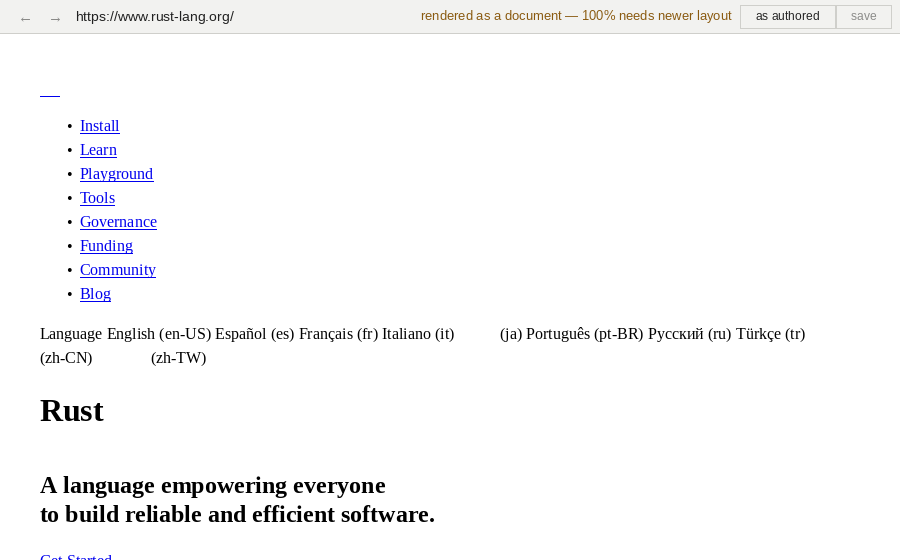
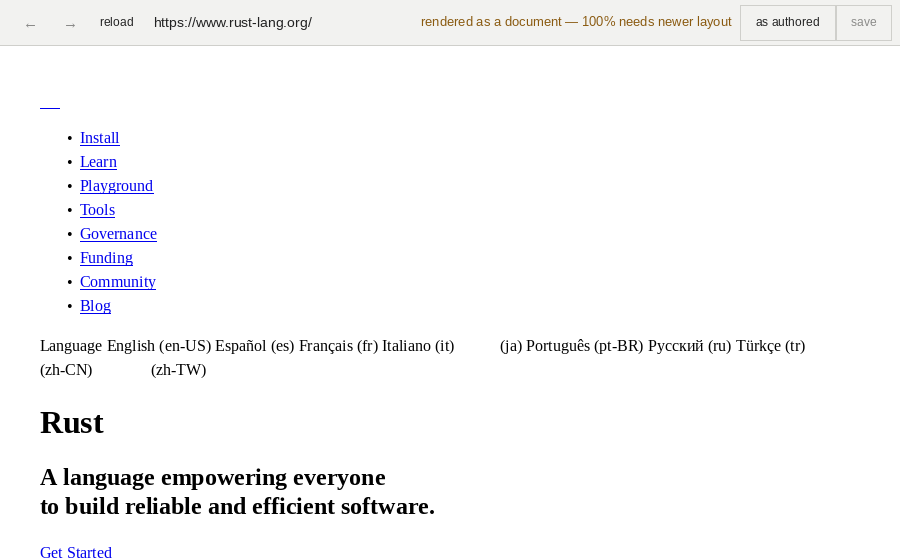
Give reload a word, and update the screenshots to show it
The reload button drew as a hollow box. U+21BB is not in any of the four
families ADR-0008 bundles, and the commit that added it asserted the
opposite in a comment — an assumption, written confidently, that every test
passed straight over. It took regenerating the screenshots and looking at
one to see it.

This is the failure the bookmark control already documents: "a word rather
than a star because the bundled fonts have no star in them ... a control
that draws as a hollow box is worse than one that says what it does". So
reload now carries the word, at 58px like the other worded controls. Back
and forward keep their arrows, which are genuinely there.

The screenshots are regenerated from the release build via
scripts/screenshots.sh: hacker-news, first-website, and document-fallback
show the 46px bar and the new button, and chrome.png is redrawn from the
chrome-strip example.

Worth noting what did not catch this. The chrome is drawn through the same
rasteriser as the page specifically so it can be tested headlessly, and
124 tests do exercise it — but every one of them asks where a control is or
whether its pixels changed, and a hollow box has a position and differs
from what came before. Nothing asks whether a glyph exists in the fonts
that will be asked to draw it. That check belongs with the font store
rather than with the bar, and it is not in this commit.

Claude-Session: https://claude.ai/code/session_01UeVgUx6HduKNfuU5dbFSXS

diff --git a/crates/shell/src/chrome.rs b/crates/shell/src/chrome.rs
@@ -261,6 +261,13 @@ pub enum Control {
     Bookmark,
 }
 
+/// Width of the reload control.
+///
+/// A word, for the same reason the bookmark control is one: U+21BB is not in
+/// any of the four bundled families (ADR-0008), so it drew as a hollow box —
+/// which is how it reached a screenshot before anyone noticed. Back and forward
+/// keep their arrows because U+2190 and U+2192 are actually there.
+const RELOAD: f32 = 58.0;
 /// Width of the layout toggle, which carries a word rather than an arrow.
 const TOGGLE: f32 = 96.0;
 /// Width of the bookmark control, which also carries a word.
@@ -292,7 +299,7 @@ pub fn controls(state: &State<'_>) -> Vec<(Control, Rect)> {
     let mut out = vec![
         (Control::Back, button(PADDING, BUTTON)),
         (Control::Forward, button(PADDING + BUTTON, BUTTON)),
-        (Control::Reload, button(PADDING + BUTTON * 2.0, BUTTON)),
+        (Control::Reload, button(PADDING + BUTTON * 2.0, RELOAD)),
     ];
     // Not while editing: the bar gives its right-hand side over to the field,
     // so these are not drawn — and a control that is not drawn must not still
@@ -429,23 +436,36 @@ pub fn render(state: &State<'_>, width: u32, fonts: &mut FontStore) -> Pixmap {
     };
     for (control, rect) in nav_controls {
         match control {
-            Control::Back | Control::Forward | Control::Reload => {
-                let enabled = match control {
-                    Control::Back => state.can_go_back,
-                    Control::Forward => state.can_go_forward,
-                    // Always available: reloading is how you recover from a
-                    // failed navigation, which is exactly when the other two
-                    // are least useful.
-                    _ => true,
+            Control::Reload => {
+                // A word, and never dimmed: reloading is how you recover from
+                // a failed navigation, which is exactly when back and forward
+                // are least use.
+                let label_style = ui_style(12.0);
+                let text_width = measure(fonts, "reload", &label_style);
+                draw_text(
+                    &mut list,
+                    fonts,
+                    "reload",
+                    &label_style,
+                    rect.x + (rect.width - text_width) / 2.0,
+                    baseline() + 1.0,
+                    theme.ink,
+                    rect.width,
+                );
+            }
+            Control::Back | Control::Forward => {
+                let enabled = if control == Control::Back {
+                    state.can_go_back
+                } else {
+                    state.can_go_forward
                 };
                 // Arrows rather than words: the one piece of browser
-                // iconography nobody has to learn. U+21BB is in the bundled
-                // families (ADR-0008); a glyph that fell back to a hollow box
-                // would be worse than a word.
-                let glyph = match control {
-                    Control::Back => "\u{2190}",
-                    Control::Forward => "\u{2192}",
-                    _ => "\u{21bb}",
+                // iconography nobody has to learn, and both are in the bundled
+                // families.
+                let glyph = if control == Control::Back {
+                    "\u{2190}"
+                } else {
+                    "\u{2192}"
                 };
                 draw_text(
                     &mut list,
@@ -489,7 +509,7 @@ pub fn render(state: &State<'_>, width: u32, fonts: &mut FontStore) -> Pixmap {
         }
     }
 
-    let url_x = PADDING * 2.0 + BUTTON * 3.0;
+    let url_x = PADDING * 2.0 + BUTTON * 2.0 + RELOAD;
 
     // Find takes the bar over while it is open, the same way editing does, and
     // for the same reason: what you are doing is more important than where you
@@ -1045,6 +1065,7 @@ mod tests {
             .find(|(control, _)| *control == Control::Reload)
             .expect("a reload button");
         assert_eq!(reload.x, forward.x + BUTTON, "reload is not beside forward");
+        assert_eq!(reload.width, RELOAD, "reload carries a word, not a glyph");
         // Unlike back and forward it is never greyed out, so it must always be
         // present to click — including on a page that failed to load, which is
         // exactly when it is wanted.
